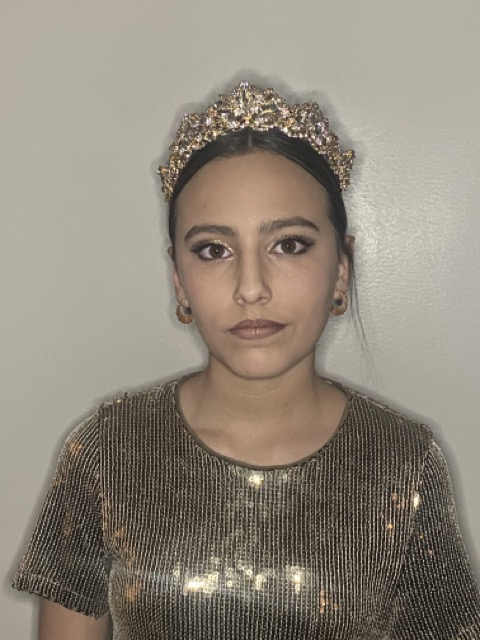
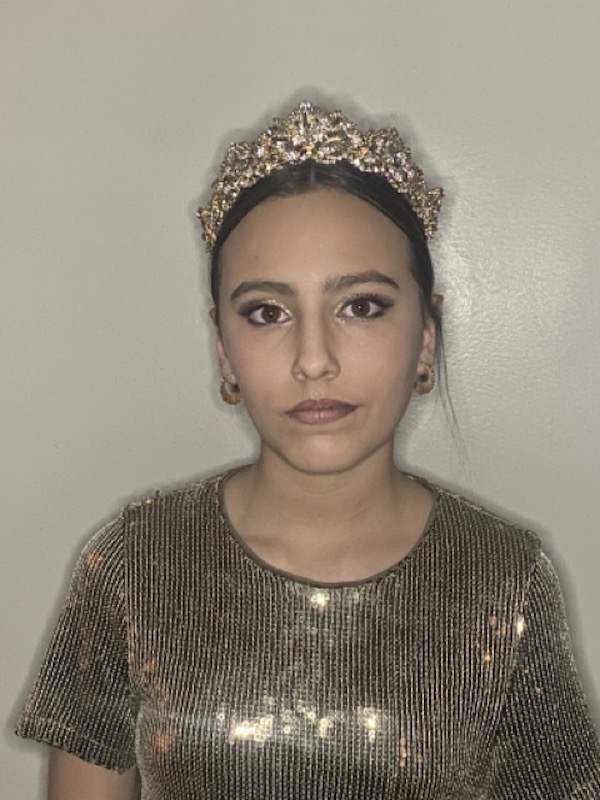
Panels

Changed region(s): [[0.7812, 0.8438, 0.8438, 0.9062], [0.75, 0.9062, 0.7812, 0.9375]]

diff --git a/index.html b/index.html
@@ -85,41 +85,44 @@
 
 
   <main>
-    <article class="panel">
-      <div class="text-wrapper">
-        <h2>About Madison</h2>
-        <p>Madison has always enjoyed doing makeup and hair. She received her certification in Makeup Artistry at Taylor
-          Andrews Academy in January of 2021</p>
-        <a class="button" href="about/">
-          About Madison
-        </a>
-      </div>
-      <div class="image-wrapper">
-        <img src="images/profilepic.jpg"
-          alt="Madison Sharp, The makeup artist. A woman with long blonde hair, blue eyes, pink lipstick and a white blouse"
-          width="400" height="711">
-      </div>
-    </article>
+    <div class="panels">
+      <article class="panel">
+        <div class="text-wrapper">
+          <h2>About Madison</h2>
+          <p>Madison has always enjoyed doing makeup and hair. She received her certification in Makeup Artistry at
+            Taylor
+            Andrews Academy in January of 2021</p>
+          <a class="button" href="about/">
+            About Madison
+          </a>
+        </div>
+        <div class="image-wrapper">
+          <img src="images/profilepic.jpg"
+            alt="Madison Sharp, The makeup artist. A woman with long blonde hair, blue eyes, pink lipstick and a white blouse"
+            width="600" height="800">
+        </div>
+      </article>
 
 
-    <article class="panel">
-      <div class="text-wrapper">
-        <h2>Portfolio</h2>
-        <h3> Model: Mercedes Sharp</h3>
-        <p>This was one of Madison's favorite makeup looks. Done on her sister, Mercedes, for a New Years party</p>
+      <article class="panel">
+        <div class="text-wrapper">
+          <h2>Portfolio</h2>
+          <h3> Model: Mercedes Sharp</h3>
+          <p>This was one of Madison's favorite makeup looks. Done on her sister, Mercedes, for a New Years party</p>
 
-        <a class="button" href="contact/">
-          Contact
-        </a>
-      </div>
-      <div class="image-wrapper">
-        <img src="images/newyears1front.jpeg"
-          alt="A young woman dressed in a sequined bronze-colored shirt, wearing a crown and sparkly gold eyeshadow"
-          width="480" height="640">
-      </div>
+          <a class="button" href="contact/">
+            Contact
+          </a>
+        </div>
+        <div class="image-wrapper left">
+          <img src="images/newyears1front.jpeg"
+            alt="A young woman dressed in a sequined bronze-colored shirt, wearing a crown and sparkly gold eyeshadow"
+            width="600" height="800">
+        </div>
 
 
-    </article>
+      </article>
+    </div>
   </main>
 
 

diff --git a/styles/main.css b/styles/main.css
@@ -234,6 +234,17 @@ a[href]:hover {
 
 /* Submenu up from mobile screens*/
 
+/* Panels */
+.panels {
+  display: flex;
+}
+.panel {
+  display: flex;
+}
+.panel .image-wrapper {
+  order: 1;
+}
+
 /*cards*/
 .sr-only {
   clip: rect(1px, 1px, 1px, 1px);
@@ -317,15 +328,14 @@ footer {
     flex: 0 1 calc(25%- 1em);
   }
 
-  /* .panel .image-wrapper {
-    flex: 40%;
-  }
   .panel .text-wrapper {
-    flex: 60%;
-  } */
-  .panel {
-    display: flex;
-    flex-wrap: wrap;
+    order: 1;
+  }
+  .panel .image-wrapper {
+    order: 0;
+  }
+  .panels {
+    flex-direction: column;
   }
 }
 
@@ -341,8 +351,19 @@ footer {
     flex: 0 1 calc(25%- 1em);
   }
   .panel {
-    display: flex;
-    flex-wrap: wrap;
+    flex-direction: row;
+  }
+
+  .panel .left {
+    order: -1;
+  }
+
+  .panel .image-wrapper {
+    order: 1;
+  }
+
+  .panel h2 {
+    margin: 0;
   }
 }
 
@@ -359,22 +380,11 @@ footer {
     width: auto;
   }
 
-  /*panel formatting*/
-  .panel .image-wrapper {
-    order: 0;
-  }
-  .panel .text-wrapper {
-    order: 1;
-  }
-  /* .left .image-wrapper {
-    order: 1;
-  }
-  .left .text-wrapper {
-    order: 0;
-  } */
   .panel {
-    display: flex;
-    flex-wrap: wrap;
+    flex-direction: row;
+  }
+  .panel .left {
+    order: -1;
   }
   .cards {
     display: flex;
